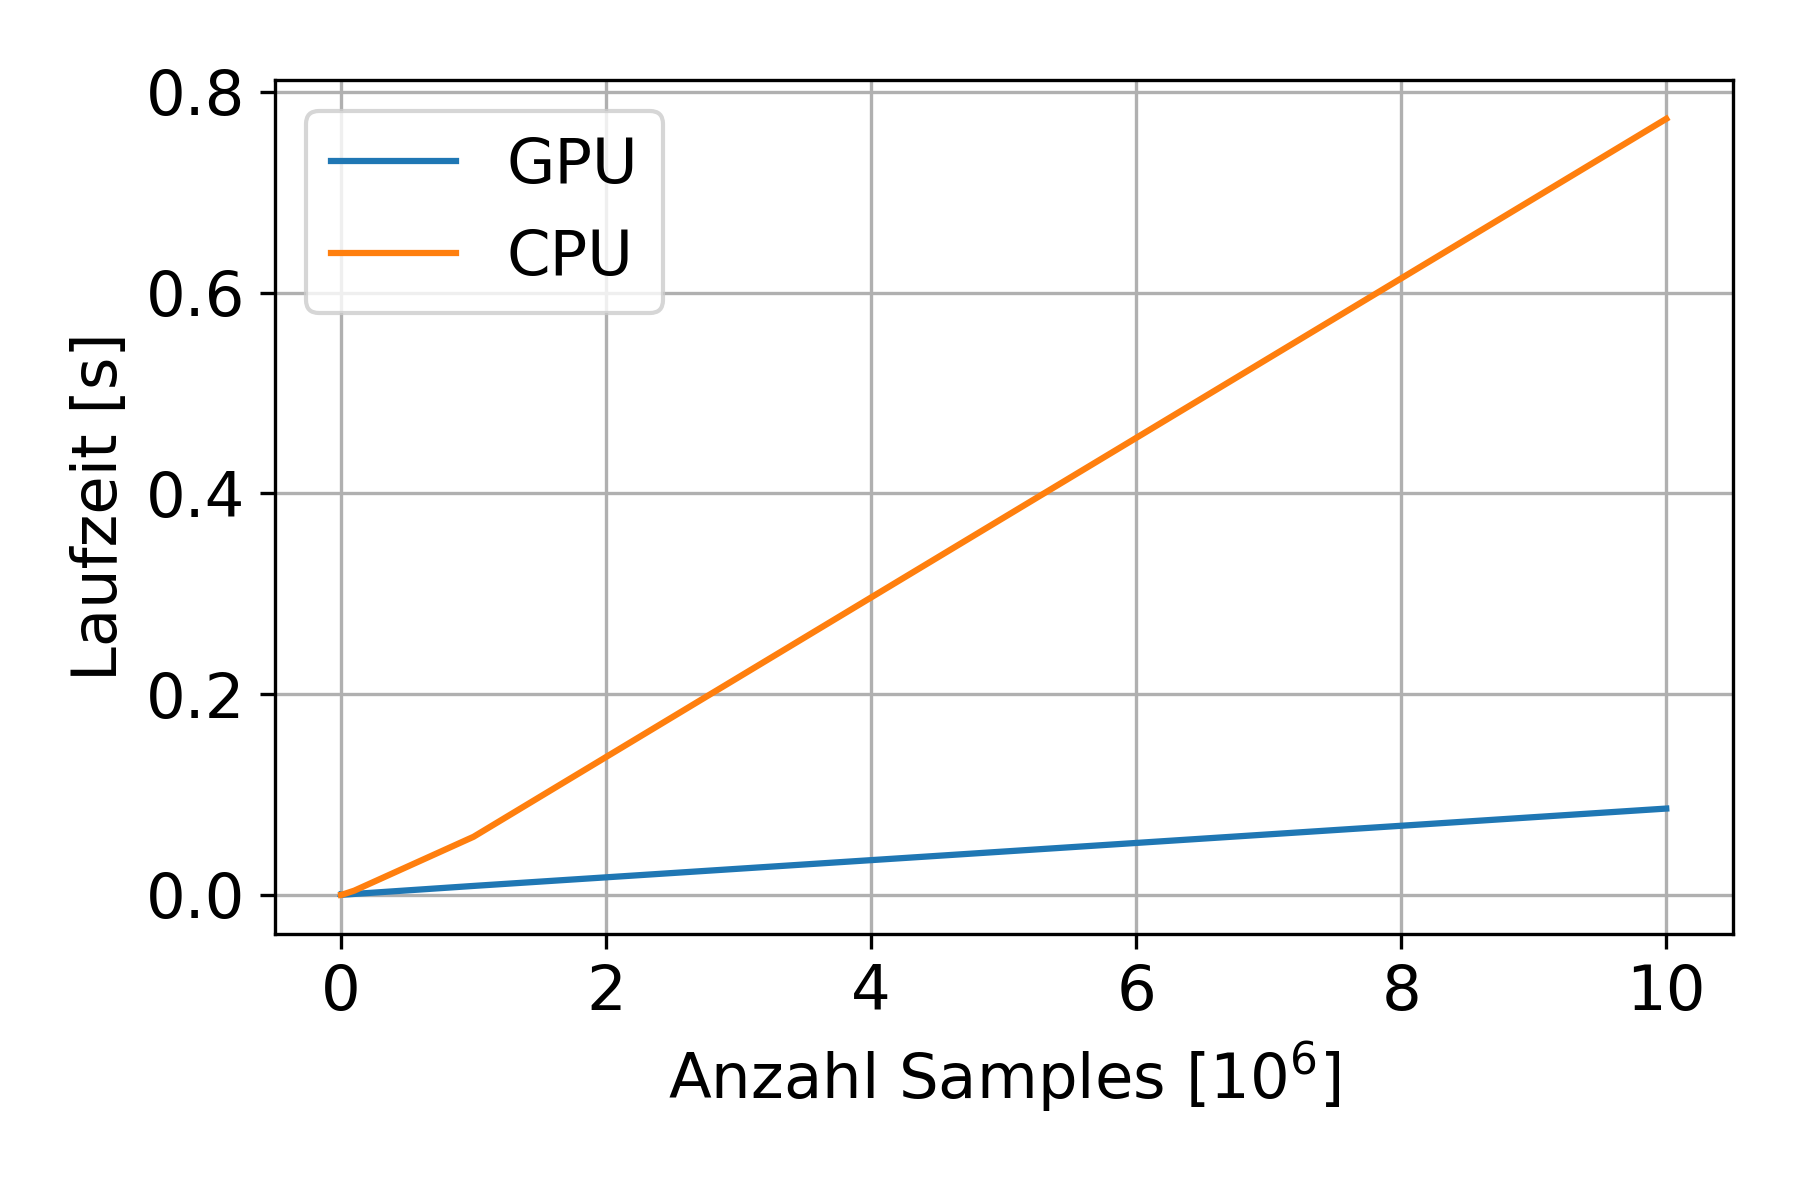
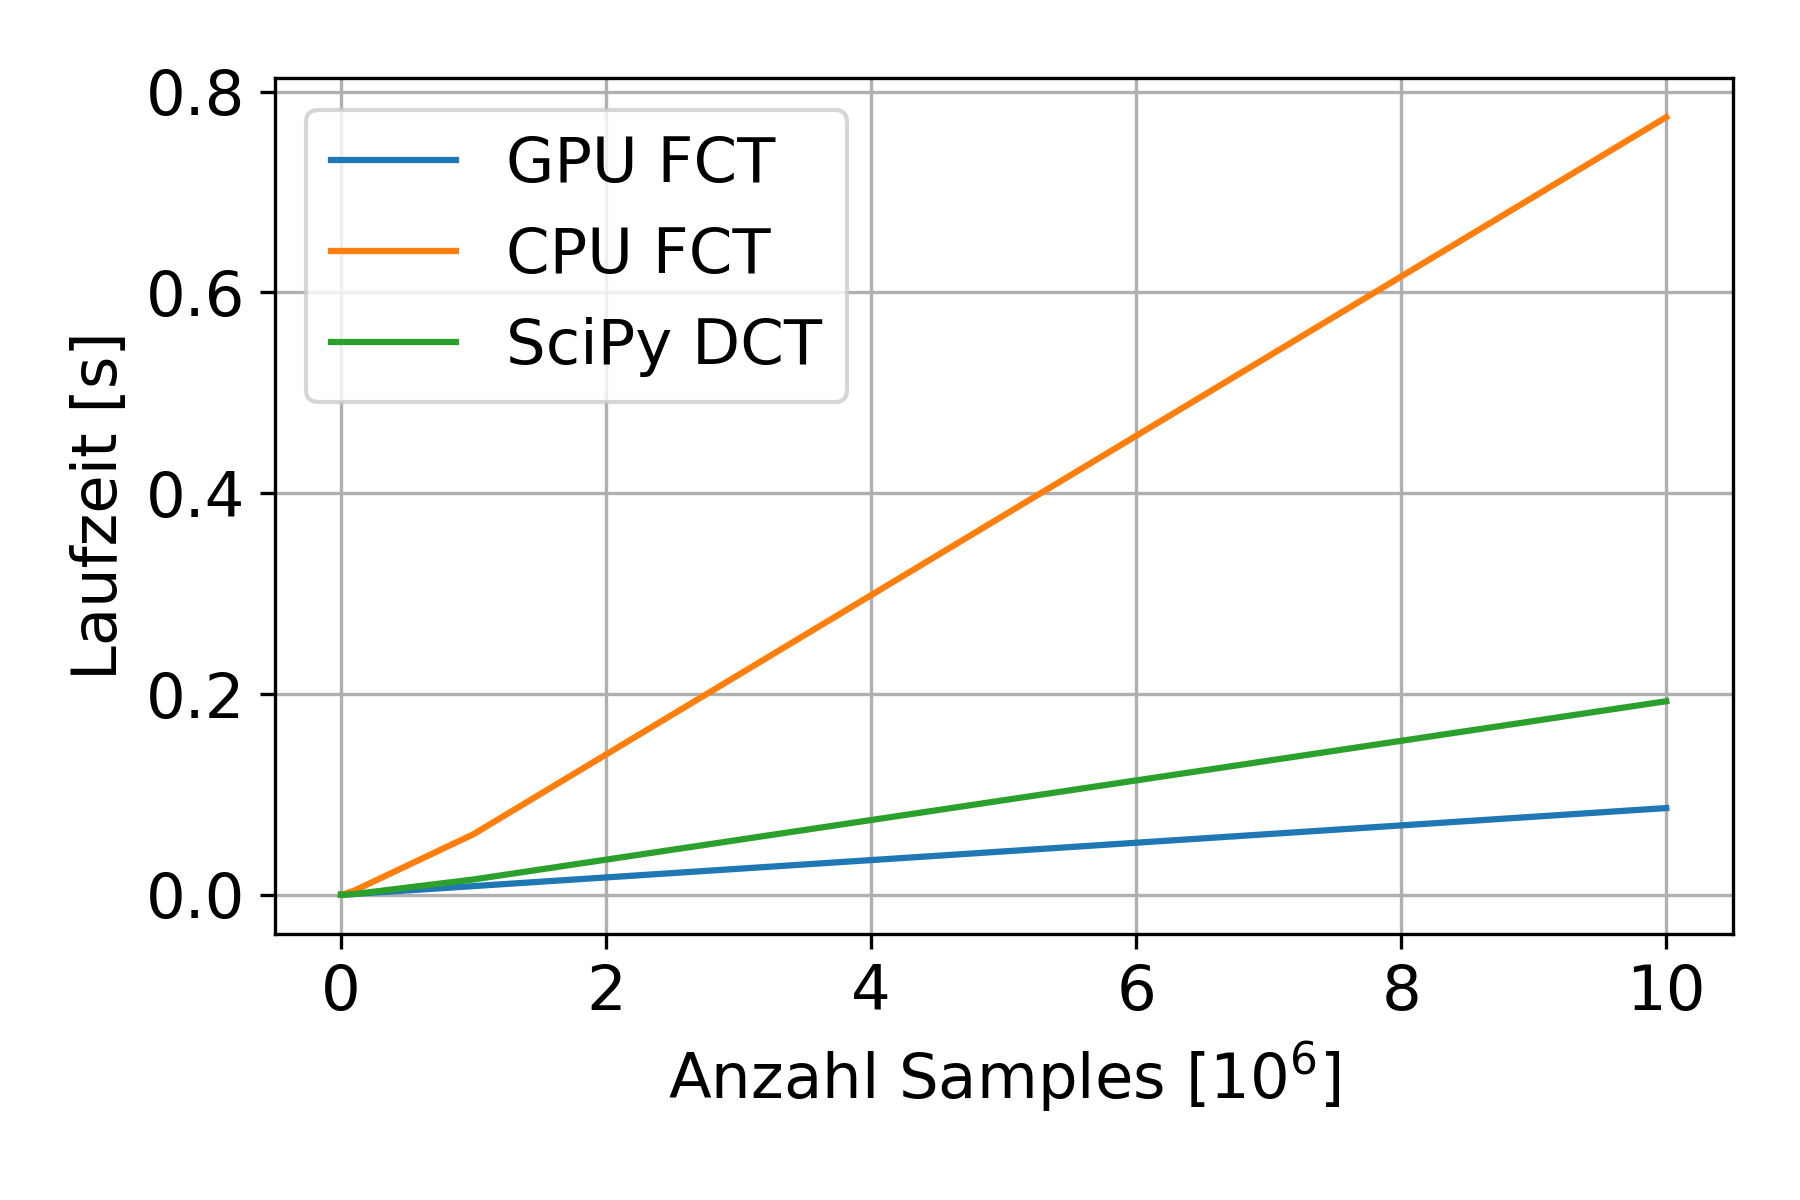
Do meassurement for SciPy DCT

diff --git a/dct/stopwatch.py b/dct/stopwatch.py
@@ -5,6 +5,7 @@ import cupy as cp
 from dct import dct_gpu
 from dct import dct_cpu
 import time
+from scipy.fft import dct as scipy_dct
 
 SAMPLES = [10**k for k in range(2, 8)]
 NUMBER_RUNS = 15
@@ -15,6 +16,7 @@ def generate_samples(number_samples):
 samples_cases = []
 gpu = []
 cpu = []
+s_dct = []
 # for s in SAMPLES:
 for s in SAMPLES:
     samples_cases.append(s)
@@ -40,6 +42,14 @@ for s in SAMPLES:
         times.append(tack-tick)
     cpu.append(np.average(times))
 
+    times = []
+    for t in range(NUMBER_RUNS):
+        tick = time.time()
+        scipy_dct_res = scipy_dct(x_cpu)
+        tack = time.time()
+        times.append(tack-tick)
+    s_dct.append(np.average(times))
+
 import matplotlib.pyplot as plt
 size = 15
 plt.rc('font', size=size) #controls default text size
@@ -52,8 +62,9 @@ plt.rc('legend', fontsize=size) #fontsize of the legend
 fig, ax = plt.subplots()
 ax.grid()
 
-ax.plot(np.array(samples_cases)/1e6,gpu,label='GPU')
-ax.plot(np.array(samples_cases)/1e6,cpu,label='CPU')
+ax.plot(np.array(samples_cases)/1e6,gpu,label='GPU FCT')
+ax.plot(np.array(samples_cases)/1e6,cpu,label='CPU FCT')
+ax.plot(np.array(samples_cases)/1e6,s_dct,label='SciPy DCT')
 # ax.set_xlim(0.0)
 ax.set_xlabel(r'Anzahl Samples [$10^6$]')
 ax.set_ylabel('Laufzeit [s]')
